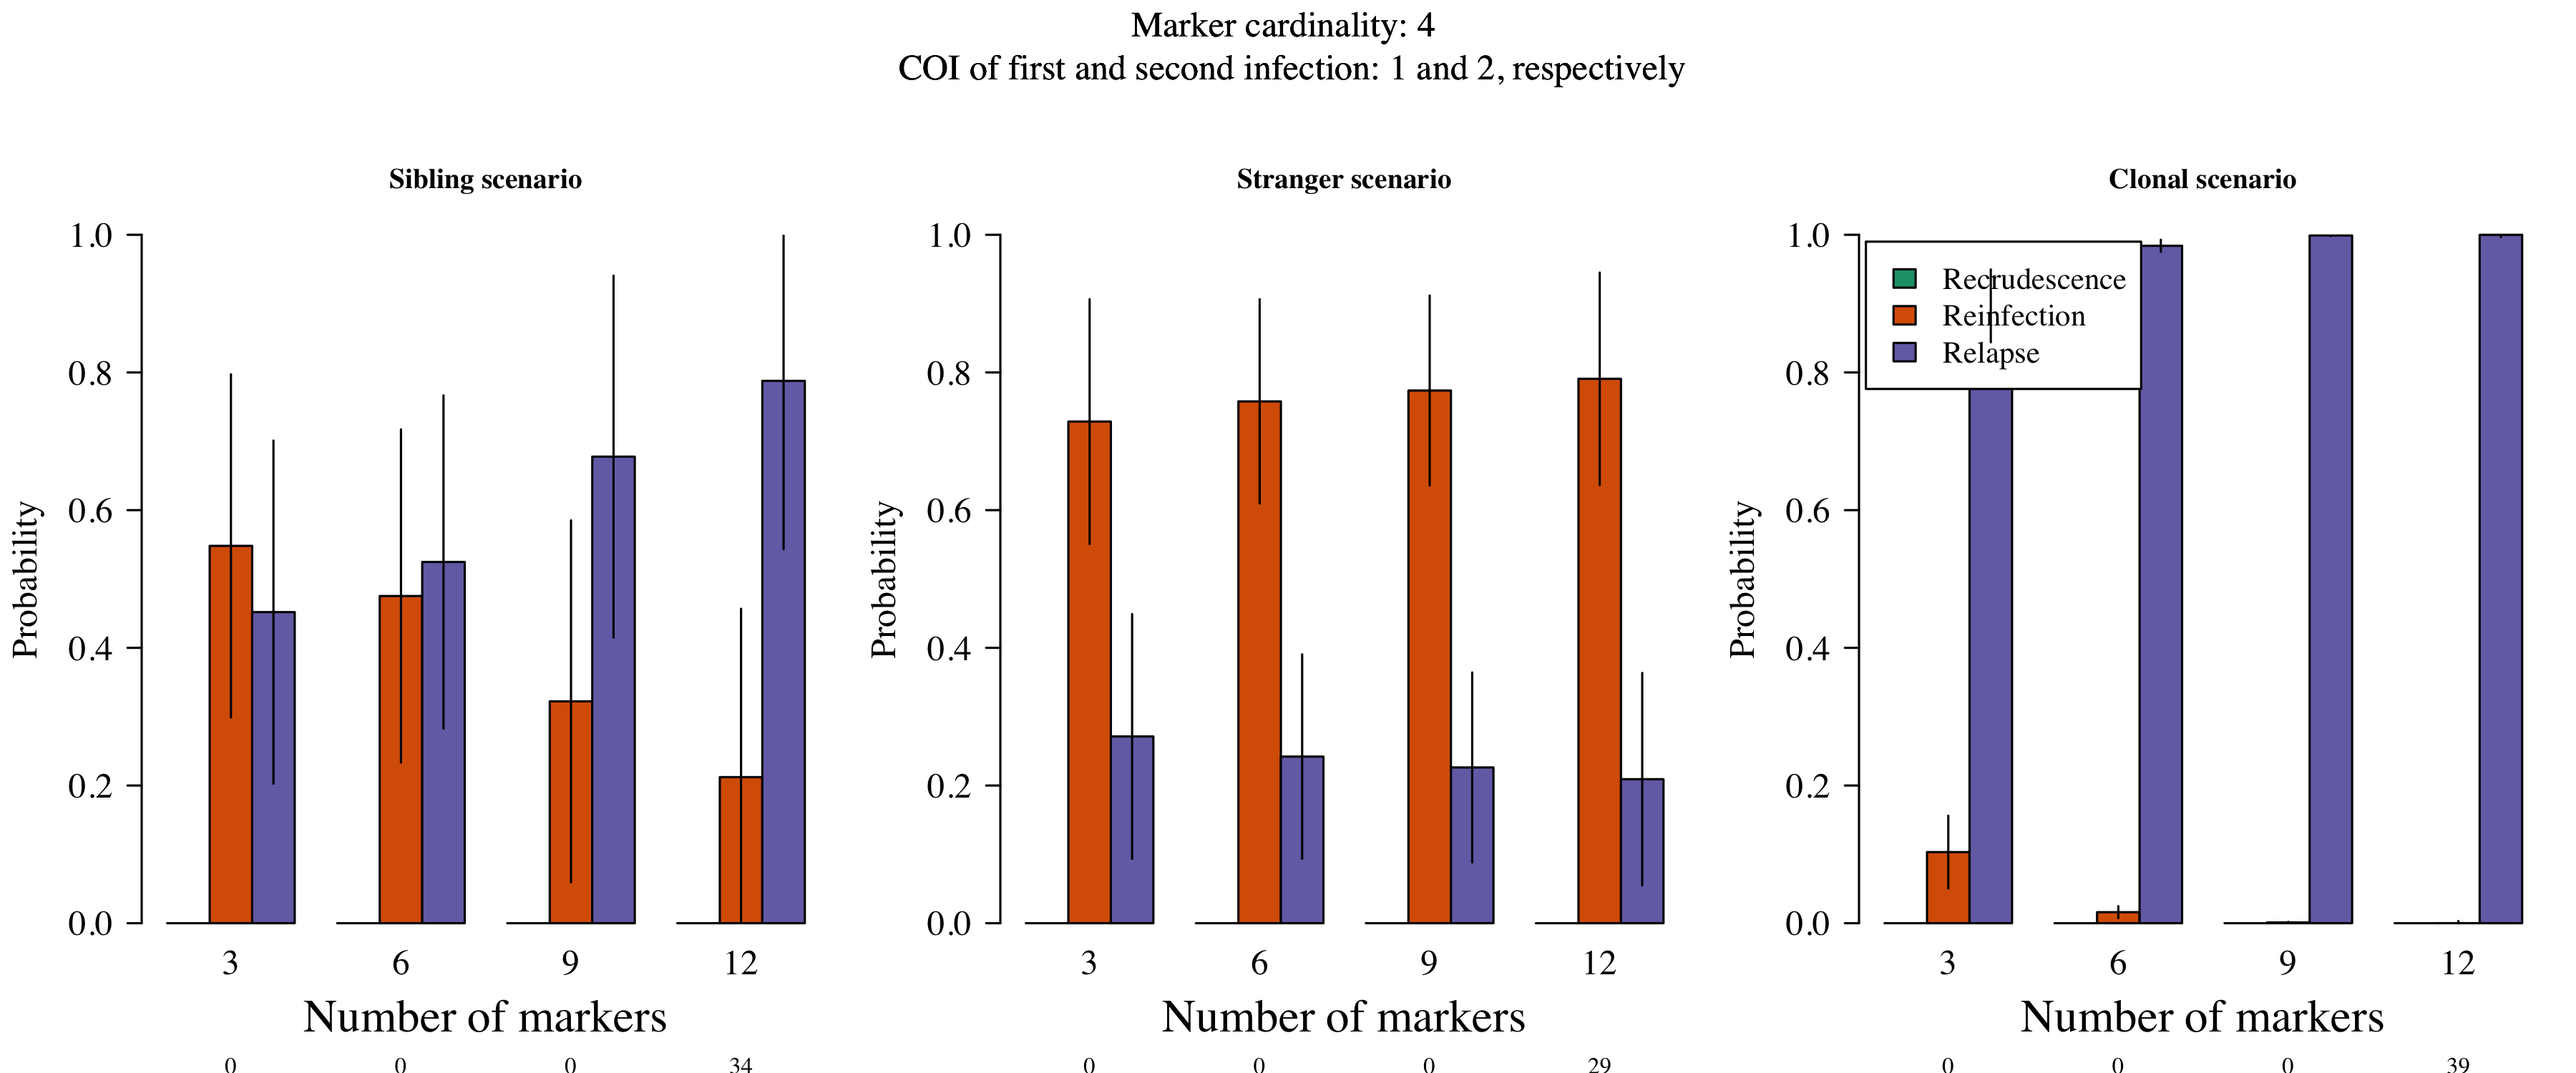
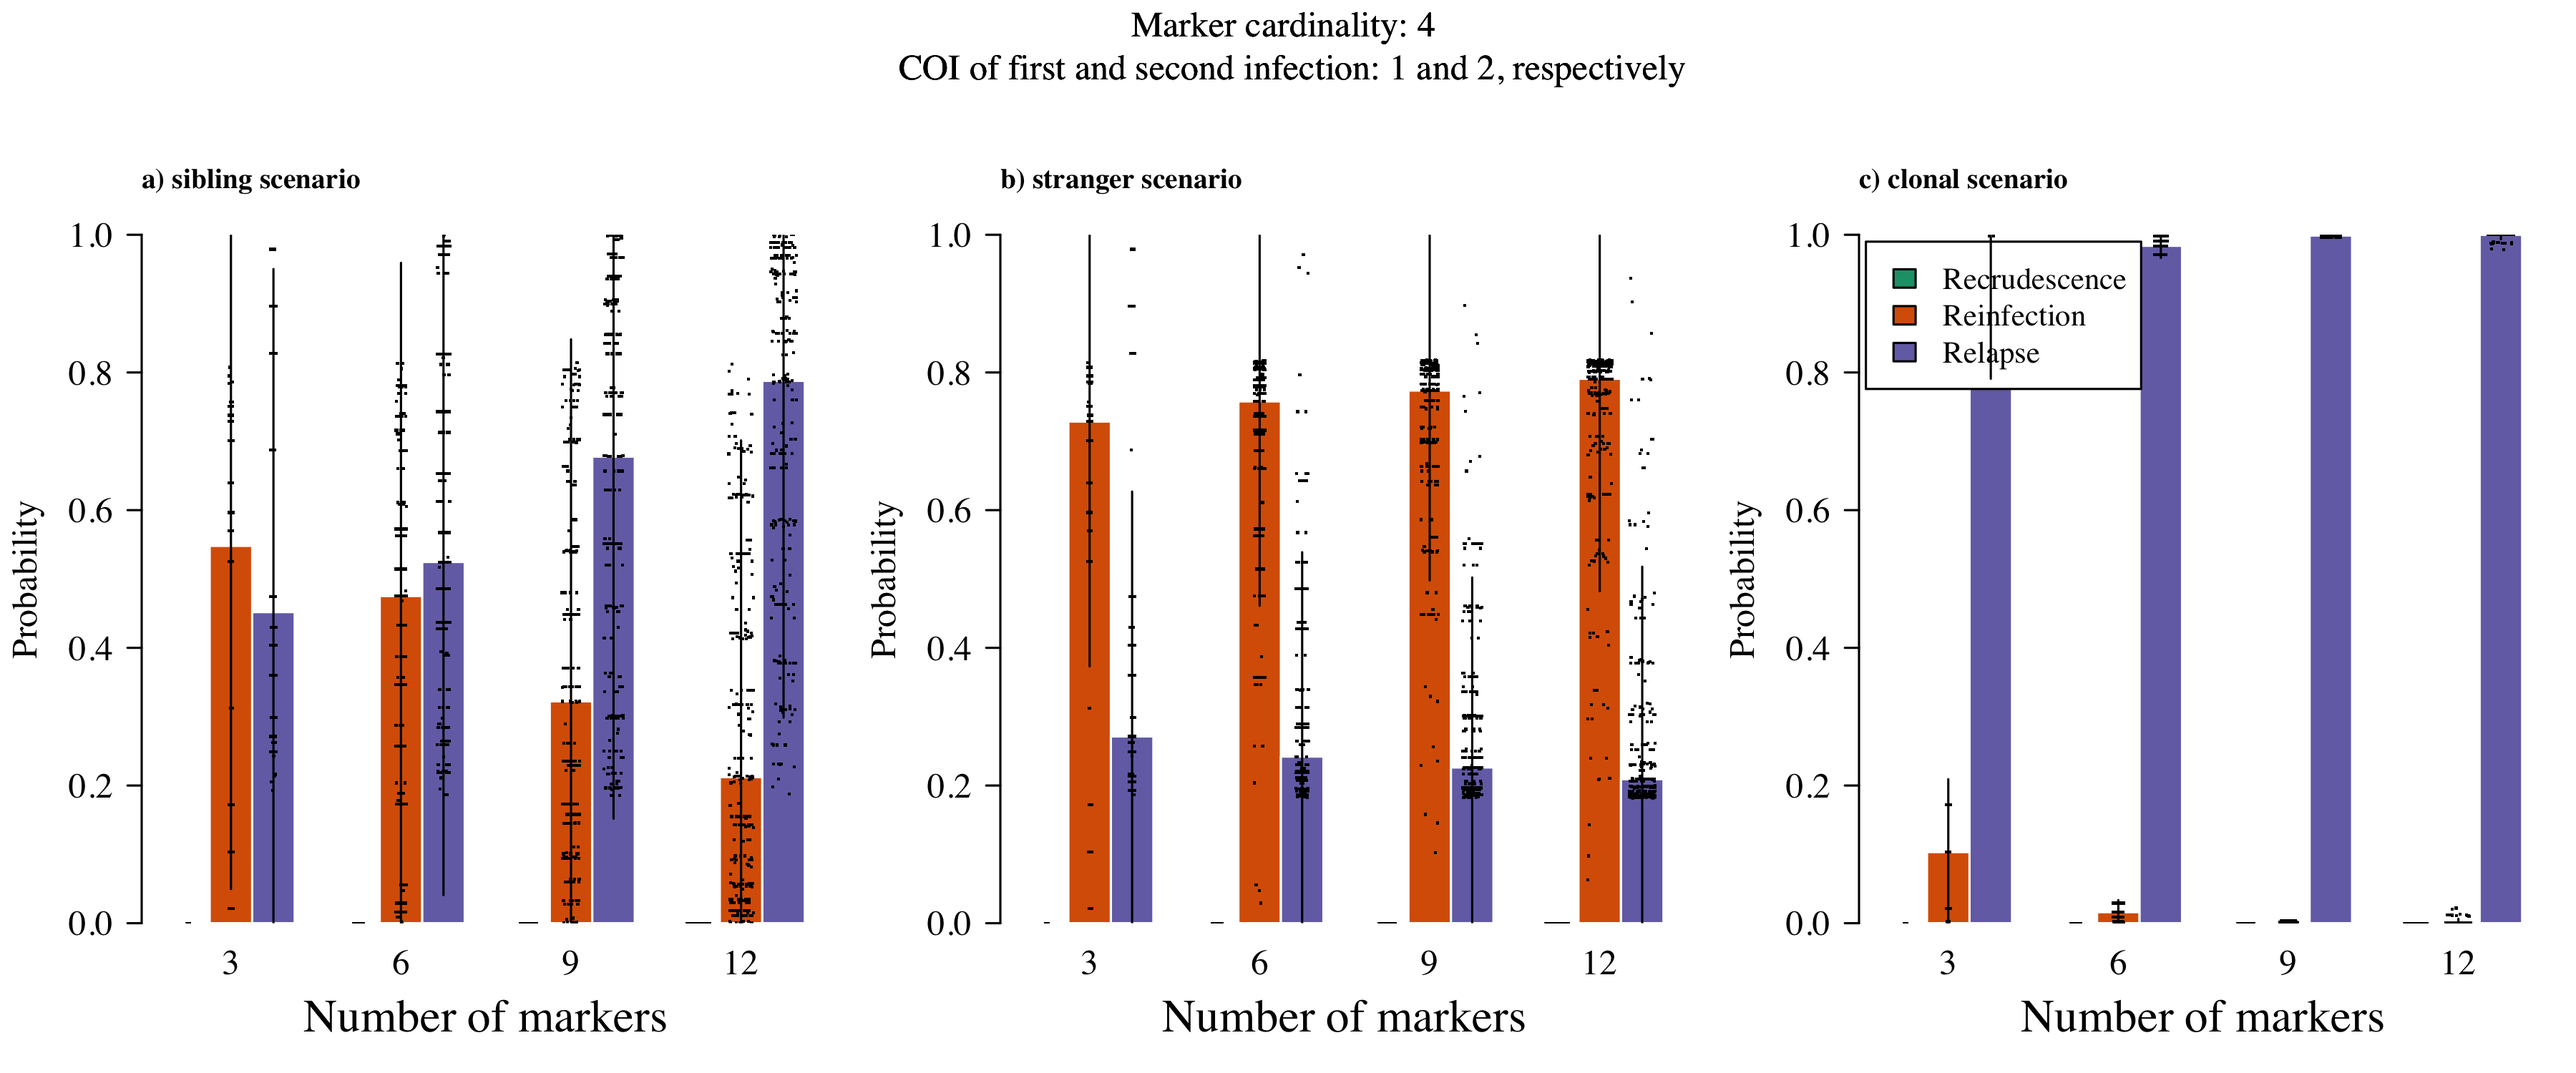
Edits and pdf re-gen after dots added

diff --git a/Simulation_Study/SimulationStudy_Genetic_Model.md b/Simulation_Study/SimulationStudy_Genetic_Model.md
@@ -4,17 +4,17 @@ output:
   html_document:
     df_print: paged
     keep_md: yes
-header-includes:
-   - \usepackage{float}  
+  pdf_document: default
+header-includes: \usepackage{float}
 ---
 
 <!-- Nine individuals from the VHX and BPD datasets were deemed to have data too complex to analyse under the model. They received drugs XXX. All nine individuals appear to have had multiple relapses, based on data visualization, which can be used to rapidly identify clonally compatible phases, where computational methods fail (Figure XXX). -->
 
-In this script, simulated genetic data are generated and plotted, and the results of the genetic model applied to those data are loaded and plotted. The simulated data are analysed under the model in a separate script called Generate_GenSimResults.R. This script relies on BuildSimData.R, a function that for a set of input parameters generates data for a graph over an initial episode and single recurrence. The graph contains a single between-episode edge representing a parasite haploid genotype with specified relationship in stranger, sibling or clone, which is among otherwise unrelated 'stranger' parasites if the input complexity of infections (COIs) exceed one. We chose this type of graph, in which the `noisy' parasite haploid genotypes are unrelated since it is the most diverse thus most computationally challenging. In other words, it is a extreme scenario which is used to bound the performance of the model. Indeed, some of the problems we encounter in this extreme scenario do not apply to the real data. Complex infections in the real data most likely derive from either relapsing or co-inoculated parasites (there is little opportunity for superinfection due to active follow up), and thus are liable to be interrelated, therefore less diverse.  
+In this script, simulated genetic data are generated and plotted, and the results of the genetic model applied to those data are loaded and plotted. The simulated data are analysed under the model in a separate script called Generate_GenSimResults.R. This script relies on BuildSimData.R, a function that for a set of input parameters generates data for a graph over an initial episode and single recurrence. The graph contains a single between-episode edge representing a parasite haploid genotype with specified relationship in stranger, sibling or clone, which is among otherwise unrelated 'stranger' parasites if the input complexity of infections (COIs) exceed one. This type of graph, in which the `noisy' parasite haploid genotypes are unrelated, is the most diverse and thus most computationally challenging. In other words, it is a extreme scenario which is used to bound the performance of the model. Indeed, some of the problems we encounter in this extreme scenario do not apply to the real data. Complex infections in the real data most likely derive from either relapsing or co-inoculated parasites (there is little opportunity for superinfection due to active follow up), and thus are liable to be interrelated, therefore less diverse.  
 
-Outline of this script:  
+## Outline of this script:  
 
-* For each "job", simulate data for N individuals, with M = 3 to 12 markers for two episodes, the second episode including a single clonal, sibling or stranger parasite. We consider several jobs: for each of the stranger, sibling and clonal scenario, we simulated data for an initial and recurrent infection with respective COIs: 1 and 1, with and without error; 2 and 1, with and without error; 1 and 2, with and without error; 3 and 1, without error. For the non-erroneous episodes with COIs of 1 and 2, we explored cardinalities of 4 (the minimum effective cardinality of any marker in the MS data that feature in the main text) and 13 (the mean effective cardinality of the MS data that feature in the main text). For the erroneous data and for the episodes with COIs of 3 and 1 cardinality was 13. 
+* For each "job", simulate data for N individuals, with M = 3 to 12 markers for two episodes, the second episode including a single clonal, sibling or stranger parasite. We consider several jobs: for each of the stranger, sibling and clonal scenario, we simulated data for an initial and recurrent infection with respective COIs: 1 & 1, with and without error; 2 & 1, with and without error; 1 & 2, with and without error; 3 & 1, without error. For the non-erroneous episodes with COIs of 1 & 2, we explored cardinalities of 4 (the minimum effective cardinality of any marker in the MS data that feature in the main text) and 13 (the mean effective cardinality of the MS data that feature in the main text). For the erroneous data and for the episodes with COIs of 3 & 1 cardinality was 13. 
 * Summarize the simulated data with a series of plots. 
 * Compute resulting recurrence state estimates (this is currently done in a separate file). 
 * Plot resulting recurrence state estimates as a function M.
@@ -61,7 +61,9 @@ Figures \ref{fig: fraction IBS} and \ref{fig: fraction IBS} show the fraction of
 \pagebreak
 
 
-\section{Results}
+# Results
+
+In the following Figures 3 to 12, each comprising three plots, each plot corresponds to a different relationship simulation scenario. Colored bars show the median of 250 posterior probabilities (dots) with error bars extending $\pm$ two standard deviation. The prior probability of each recurrence state throughout was 1/3. 
 
 
 ![\label{fig: no-error}The probability of recurrent states as a function of the number of markers typed in a sibling, stranger and clonal scenario without error.](SimulationStudy_Genetic_Model_files/figure-html/results_COI_effect-1.png)
@@ -92,25 +94,25 @@ Figures \ref{fig: fraction IBS} and \ref{fig: fraction IBS} show the fraction of
 ![\label{fig: error}The probability of recurrent states as a function of the number of markers typed in a sibling, stranger and clonal scenario assuming an extremely high probability of error.](SimulationStudy_Genetic_Model_files/figure-html/GenSim_Error-3.png)
 
 
-  ![\label{fig: COI31}The probability of recurrent states as a function of the number of markers typed in a sibling, stranger and clonal scenario when the COI of the initial infection is three and the COI of the recurrent infection is one.](SimulationStudy_Genetic_Model_files/figure-html/GenSim_COI31-1.png) 
+
+![\label{fig: COI31}The probability of recurrent states as a function of the number of markers typed in a sibling, stranger and clonal scenario when the COI of the initial infection is three and the COI of the recurrent infection is one.](SimulationStudy_Genetic_Model_files/figure-html/GenSim_COI31-1.png)
 
 
-\subsection{Inference as a function of the number of markers typed discounting error}
+## Inference as a function of the number of markers typed discounting error
 
-In Figures 3 to 8, each plot corresponds to a different relationship simulation scenario where data are simulated without error. Colored bars show the median posterior probabilities with error bars extending $\pm$ one standard deviation. The effective cardinality of each marker was set equal to either 4 or 13 in these simulations. The complexities of infection were either one in both first and second infections, two in the first and one in the second, or one in the first and two in the second. 
-The prior probability of each recurrence state was 1/3. As the number of microsatellites genotyped is increased, recurrent state probabilities converge as expected: 
+In Figures 3 to 8, each plot corresponds to a different relationship simulation scenario where data are simulated without error. The effective cardinality of each marker was set equal to either 4 or 13 in these simulations. The complexities of infection were either one in both first and second infections, two in the first and one in the second, or one in the first and two in the second. The prior probability of each recurrence state was 1/3. As the number of microsatellites genotyped is increased, recurrent state probabilities converge as expected: 
 
 - under the sibling scenario, the probabilities converge to one for relapse and zero otherwise; 
 
 - under the stranger scenario, the probability of reinfection converges to a probability greater than the prior, meanwhile the probability of relapse converges to the complement of reinfection and probability of recrudescence converges to zero. Note that this is true even when the fraction of markers with evidence of IBS is close to 0.5 (e.g. compare left-top plot of Figure 1 and middle plot of Figure 5). 
 
-- under the clonal scenario, the probability of recrudescence converges a probability greater than the prior, meanwhile the probability of relapse converges to the complement of recrudescence and the probability of reinfection converges to zero.
+- under the clonal scenario, the probability of recrudescence converges to a probability greater than the prior, meanwhile the probability of relapse converges to the complement of recrudescence and the probability of reinfection converges to zero.
 
 Convergence happens most slowly under the sibling scenario. As such, the sibling scenario dictates marker requirements in general. When the effective cardinality is 4, more than 12 markers are required for full convergence. When the effective cardinality is 13, 9 or more markers are required. 
 
-The genetic model relies on data that list alleles detected at genotyped microsatellite markers (i.e. alleles are either detected or not). The model does not account for error in the alleles detected, nor incorporate weighted evidence of majority versus minority alleles. First, let's consider the failure to detect minority clones, second let's consider the impact of error. 
+The genetic model relies on data that list alleles detected at genotyped microsatellite markers (i.e. alleles are either detected or not). The model does not account for error in the alleles detected, nor does it incorporate weighted evidence of majority versus minority alleles. First, let's consider the failure to detect minority clones, second let's consider the impact of error. 
 
-\subsection{Undetected parasite haploid genotypes}
+## Undetected parasite haploid genotypes
 
 Failure to detect data from a minority parasite haploid genotype will have different consequences depending on the relationship of the minority parasite haploid genotype in relation to other parasite haploid genotypes across episodes. For example, referring to the plots in Figures 6 and 7 as illustrative scenarios where `COI x y' denotes a COI of x in the first infection and a COI of y in the second infection, 
 
@@ -122,15 +124,15 @@ Failure to detect data from a minority parasite haploid genotype will have diffe
 
 The examples above illustrate the robust versus frail nature of relapse inference versus recrudescence inference, respectively. As we shall see in the next section, relapse inference is also robust in the presence of error, whereas recrudescence is not. 
 
-\subsection{Erroneous data}
+## Erroneous data
 
-Figures 9 to 11 shows inference in the presence of unmodelled error. The probability of error, 0.2, was set extremely high to clearly illustrate model behavior. Realistic error rates will have much less impact. Error largely impacts impacts inference of recrudescence: in the Clonal scenario clonal parasites are interpreted as sibling parasites and the probability of relapse tends towards one.
+Figures 9 to 11 shows inference in the presence of unmodelled error. The probability of error, 0.2, was set extremely high to clearly illustrate model behavior. Realistic error rates will have much less impact. Error largely impacts inference of recrudescence: in the Clonal scenario clonal parasites are interpreted as sibling parasites and the probability of relapse tends towards one.
 
-\subsection{Highly complex data}
+## Highly complex data
 
-A major limitation of the genetic model has to do with computational complexity. One aspect relevant to the present simulation study is described below. When samples are complex and highly diverse, e.g. when they contain majority unrelated parasites, unconverged probabilistic phasing is liable to miss clonally compatible combinations among the vast number of combinations that are possible. Recall that clonally compatible combinations are the only ones compatible with recrudescence. The total number of possible combinations grows exponentially with the number of markers genotyped, making the probability that probabilistic phasing captures the few clonally compatible combinations increasing slim and rendering probability estimates increasingly frail for recrudescence (Figure \ref{fig: COI31}). Such highly complex scenarios are extreme. They are helpful for illustrating the problem (Figure \ref{fig: COI31}), but not representative of the VHX and BPD data: all those analysed using probabilistic phasing converged. Otherwise stated, inconsistency is not a problem VHX and BPD data analysed under the model, but could be for future data sets. 
+A major limitation of the genetic model has to do with computational complexity. One aspect relevant to the present simulation study is described below. When samples are complex and highly diverse, e.g. when they contain majority unrelated parasites, unconverged probabilistic phasing is liable to miss clonally compatible combinations among the vast number of combinations that are possible. Recall that clonally compatible combinations are the only ones compatible with recrudescence. The total number of possible combinations grows exponentially with the number of markers genotyped, making the probability that probabilistic phasing captures the few clonally compatible combinations increasing slim and rendering probability estimates increasingly frail for recrudescence (Figure \ref{fig: COI31}). Such highly complex scenarios are extreme. They are helpful for illustrating the problem (Figure \ref{fig: COI31}), but not representative of the VHX and BPD data: all those analysed using probabilistic phasing converged. Otherwise stated, inconsistency is not a problem for VHX and BPD data analysed under the model, but could be for future data sets. 
 
-\section{Conclusion}
+# Conclusion
 The current genetic model does not account for error in alleles detected, nor incorporate weighted evidence of majority versus minority alleles. These omissions render inference of recrudescence under the current model brittle, but have little impact on inference of reinfection versus relapse. As such, analyses of data from the Thailand Myanmar border, where evidence of resistant \textit{P. vivax} is lacking, are likely robust to the above omissions. However, the model merits extension before application to data from a region where \textit{P. vivax} resistance is suspected. 
 
 
